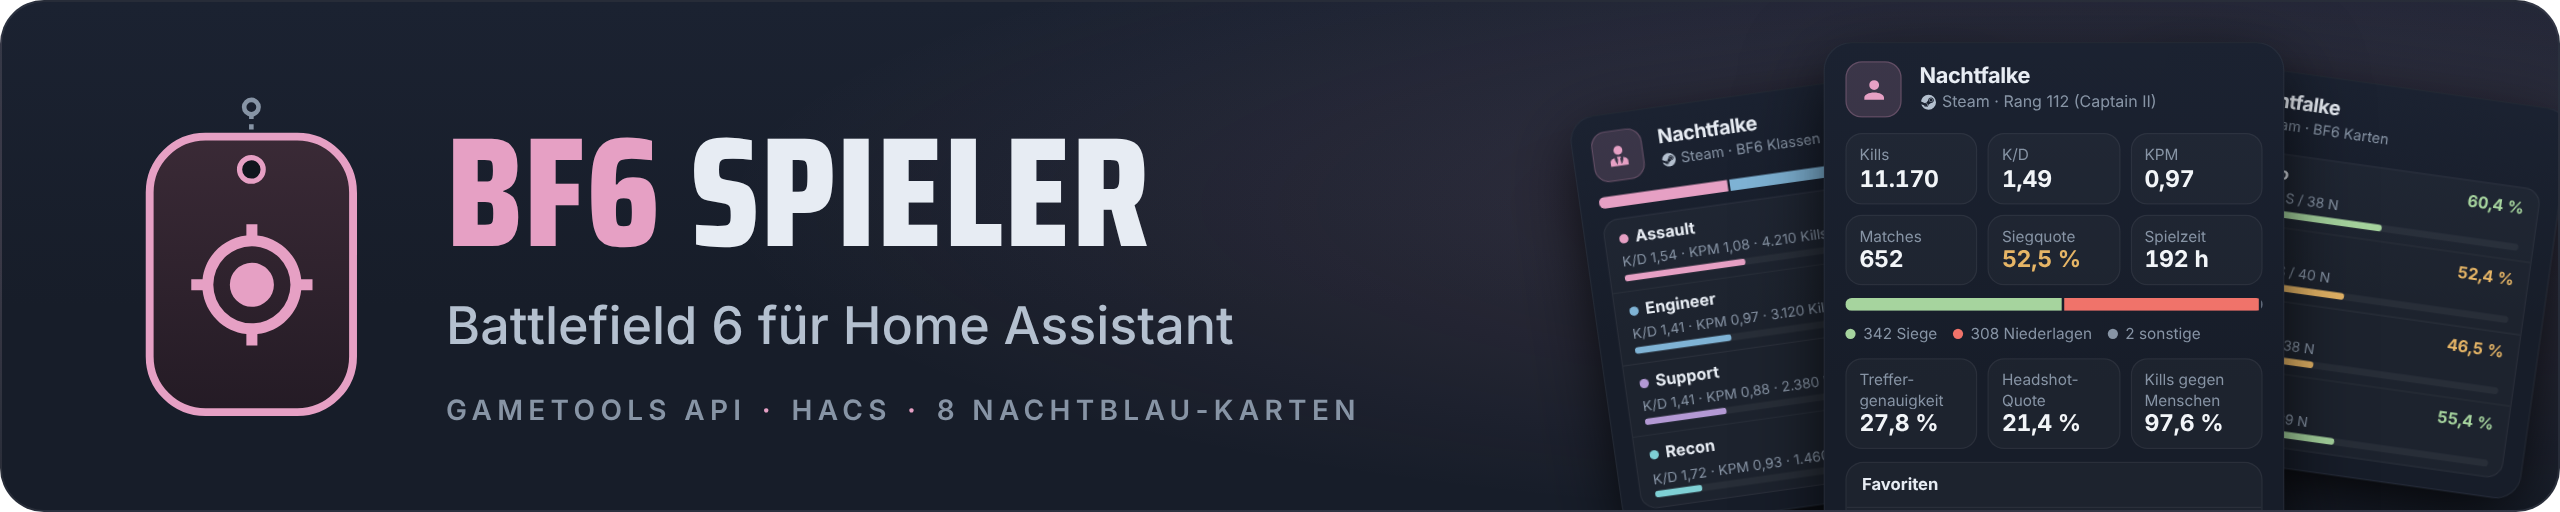
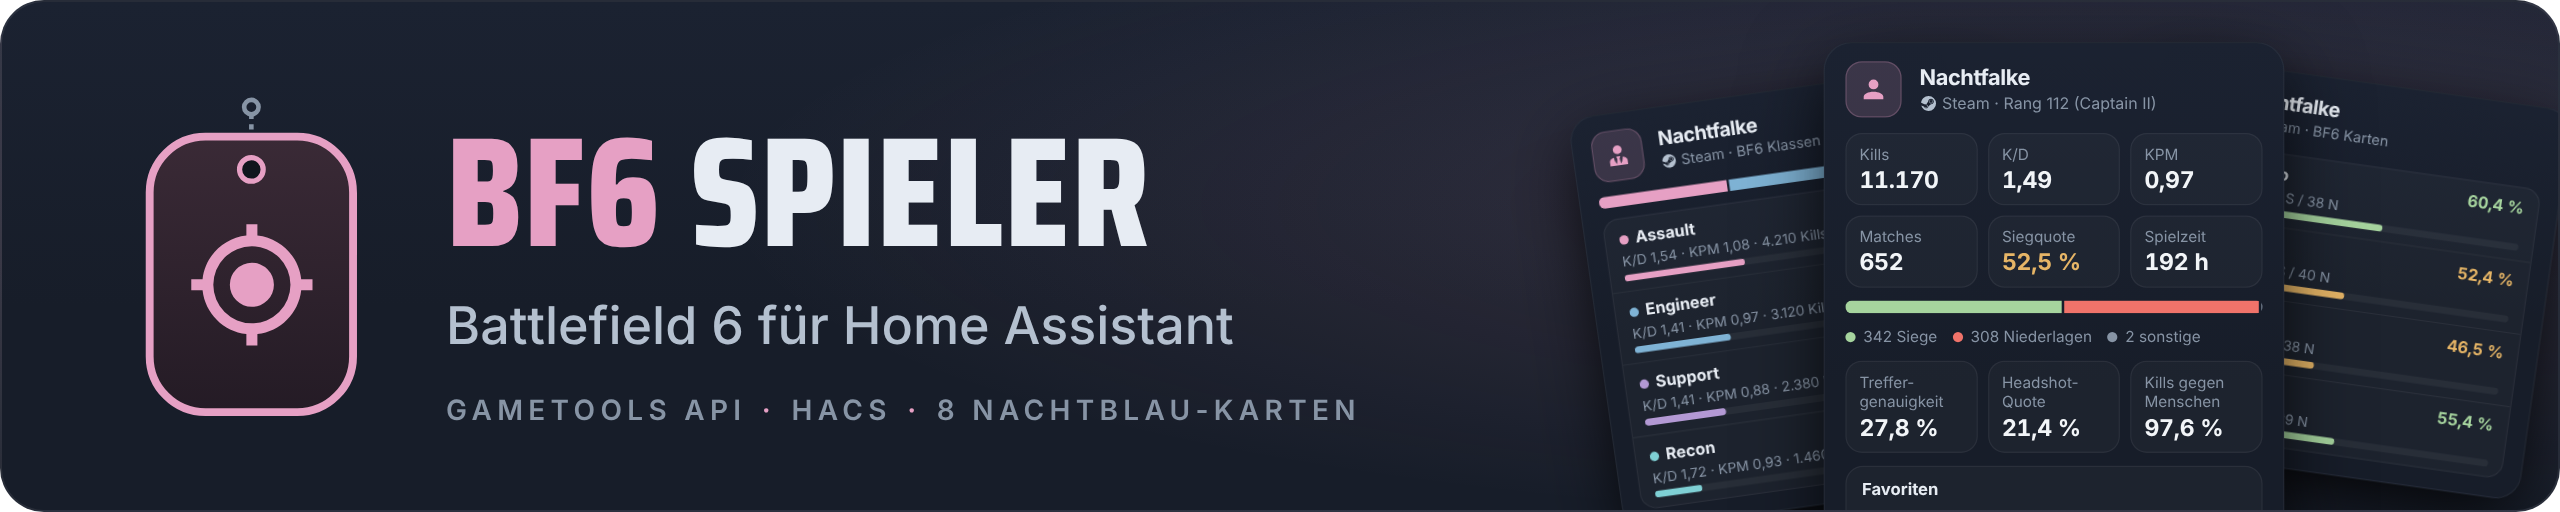
README-Bilder mit mittigen Plattform-Symbolen (#20)
render.js vergroessert mit CSS-zoom statt emulierter Pixeldichte: Mit
emulierter Dichte setzt Chromium Symbole nur auf ganze CSS-Pixel, die
Anhebung aus 0.6.7 ging verloren. Banner und Vorschaubild neu gerendert;
Symbolmitte gegen Versalmitte im Vorschaubild vorher +0,56 bis +1,38 px,
jetzt -0,14 bis +0,38 px.

Claude-Session: https://claude.ai/code/session_015EvaLWGS3M4HJDsqQgRhVK

diff --git a/assets/banner-quelle/render.js b/assets/banner-quelle/render.js
@@ -24,10 +24,16 @@ const BILDER = [
   const fehler = [];
   for (const b of BILDER) {
     if (nur && b.datei !== nur) continue;
-    const seite = await browser.newPage({ viewport: { width: b.breite, height: b.hoehe }, deviceScaleFactor: b.dichte });
+    // Dichte ueber CSS-zoom statt deviceScaleFactor: Mit emulierter Dichte
+    // setzt Chromium Symbole (SVG) nur auf ganze CSS-Pixel, Text aber feiner;
+    // die Anhebung der Plattform-Symbole (0,09 em) ginge so verloren. Mit zoom
+    // wird wie auf einem echten Display auf Bildpunkte gerundet.
+    const seite = await browser.newPage({ viewport: { width: b.breite * b.dichte, height: b.hoehe * b.dichte }, deviceScaleFactor: 1 });
     seite.on("pageerror", (e) => fehler.push(`${b.datei}: ${e.message}`));
     await seite.goto(`${BASIS}/${b.seite}`);
+    await seite.evaluate((z) => { document.documentElement.style.zoom = z; }, b.dichte);
     await seite.waitForFunction(() => window.fertig, null, { timeout: 30000 });
+    await seite.waitForTimeout(300);
     const geladen = await seite.evaluate(() => [...document.fonts].filter((x) => x.status === "loaded").map((x) => x.family.replace(/"/g, "")));
     for (const s of b.schriften) {
       if (!geladen.includes(s)) fehler.push(`${b.datei}: Schrift ${s} nicht geladen`);

diff --git a/README.md b/README.md
@@ -606,10 +606,15 @@ oder von Hand; der Text kommt aus `.github/release-notes/v<Version>.md`.
 - `platzhalter.js` baut `ha-icon` und `ha-svg-icon` wie das HA-Frontend
   nach (Shadow DOM, `inline-flex`, `vertical-align: middle`), damit Größe
   und Ausrichtung der Symbole in den Bildern denen in Home Assistant
-  entsprechen (seit 0.6.6). Offen: Die Anhebung der Plattform-Symbole aus
-  0.6.7 erscheint in den gerenderten Bildern nicht, obwohl Chromium sie im
-  Layout meldet; außerhalb dieser Seiten wird sie gezeichnet. Die Bilder
-  sind deshalb unverändert, die Ursache ist nicht geklärt.
+  entsprechen (seit 0.6.6).
+- `render.js` vergrößert mit CSS-`zoom` statt mit der emulierten
+  Pixeldichte von Playwright. Mit emulierter Dichte setzt Chromium die
+  Symbole nur auf ganze CSS-Pixel, den Text aber feiner; die Anhebung der
+  Plattform-Symbole aus 0.6.7 (1,1 px) ging dabei verloren. Mit `zoom` wird
+  wie auf einem echten Display auf Bildpunkte gerundet. Gemessen im
+  Vorschaubild: Symbolmitte gegen Versalmitte vorher +0,56 bis +1,38 px,
+  jetzt −0,14 bis +0,38 px; im Banner vorher +0,8, jetzt +0,2 px. Die Social
+  Preview (1-fache Dichte) bleibt unverändert.
 
 ## KI-Hinweis
 
